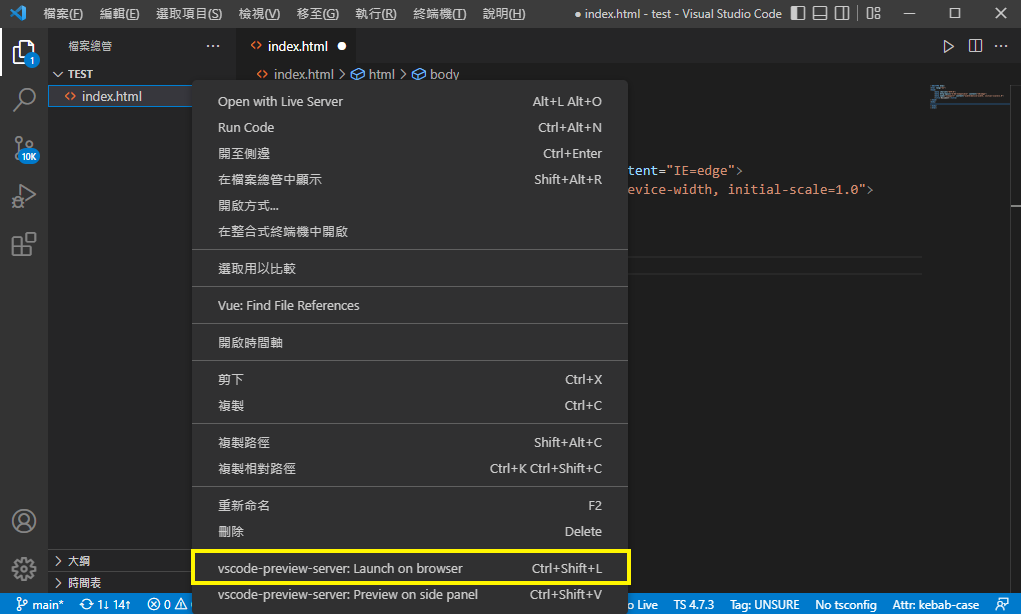
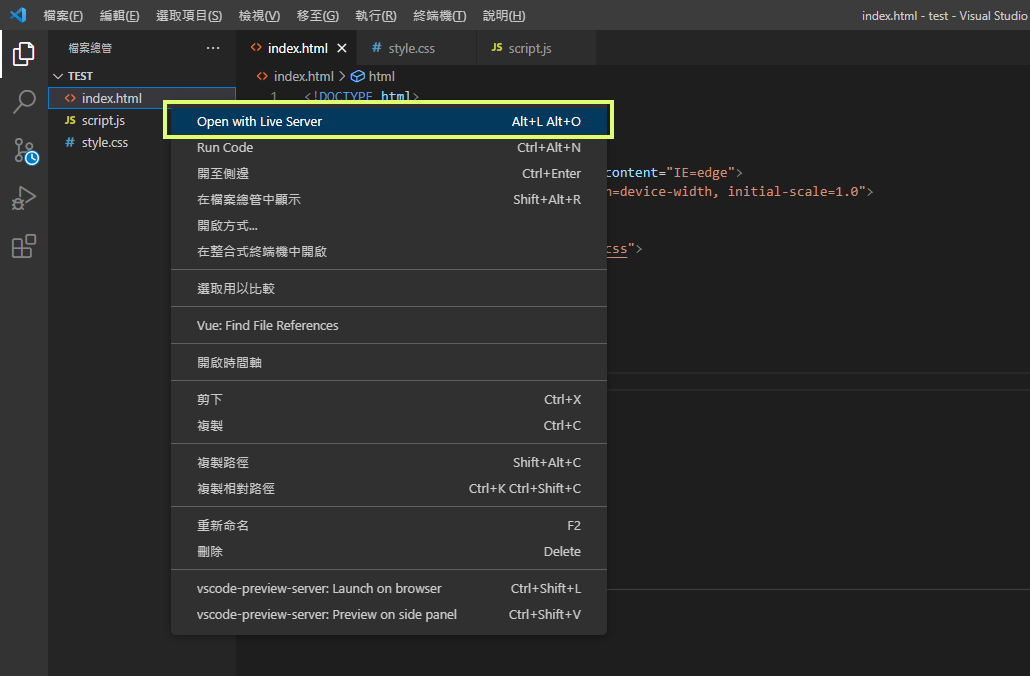
GitBook: [#14] No subject

diff --git a/jie-shao-yu-zhi-hang-huan-jing-execution-context/hello-world.md b/jie-shao-yu-zhi-hang-huan-jing-execution-context/hello-world.md
@@ -31,7 +31,7 @@ description: 所有程式語言的開端
 
 接下來輸入 `alert('hello world!!');` 並按下「Enter」試試看會發生什麼事吧！
 
-<figure><img src="../.gitbook/assets/image.png" alt=""><figcaption></figcaption></figure>
+<figure><img src="../.gitbook/assets/image (3).png" alt=""><figcaption></figcaption></figure>
 
 在試試看輸入 `console.log('hello world');`！
 
@@ -47,25 +47,41 @@ description: 所有程式語言的開端
 
 <figure><img src="../.gitbook/assets/image (1).png" alt=""><figcaption></figcaption></figure>
 
-上面已經先寫好「CSS」、「HTML」、「JavaScript」撰寫的區塊。
+上圖中已經先標示好「CSS」、「HTML」、「JavaScript」撰寫的區塊。
 
-也代表著我們接下來要將JavaScript寫在script標籤中。
+Style表示撰寫CSS，也就是網頁的樣式，程式碼通常撰寫在標籤內，`<style>這裡</style>`。
+
+Body通常做為撰寫HTML與JavaScript的地方，所以可以看見body內有script。
+
+Script就是我們用來寫JavaScript的地方。
+
+也代表著我們接下來要將JavaScript寫在script標籤中，像是：
+
+```
+<script>
+    var x = 10;
+</script>
+```
+
+但這樣的方式是不是會感覺很混亂呢？所有東西都塞在同一個檔案內。
 
 ### 引入HTML中
 
 但上面這個寫法是都將CSS、JavaScript寫在html檔案中。
 
-其實我們也可以透過引入的方式！
+其實我們也可以透過**引入**的方式！
 
-下面第9行是引入我們建立的「style.css」檔案的程式。
+可以先建立我們需要的檔案，「style.css」和「script.js」，要注意檔案後的副檔名。
+
+下面圖中第9行是引入我們建立的「style.css」檔案的程式。
 
 第14行是引入「script.js」檔案的程式，也就是我們原本撰寫JavaScript的地方。
 
-<figure><img src="../.gitbook/assets/image (3).png" alt=""><figcaption></figcaption></figure>
+<figure><img src="../.gitbook/assets/image (3) (3).png" alt=""><figcaption></figcaption></figure>
 
 接下來我們都會在這個「script.js」中撰寫JavaScript哦！
 
-上述的示範可以練習看看！
+上述的示範可以跟著練習看看！
 
 {% hint style="success" %}
 恭喜你完成到這一步啦！不過之後的地獄才剛要開始，做好心理準備前往下一課吧！

diff --git a/jie-shao-yu-zhi-hang-huan-jing-execution-context/huan-jing-ji-ben-cao-zuo.md b/jie-shao-yu-zhi-hang-huan-jing-execution-context/huan-jing-ji-ben-cao-zuo.md
@@ -44,11 +44,11 @@ description: 本章節會帶你從零開始建立基本的環境與操作
 
 ### 開啟本地端伺服器
 
-建好後，先「ctrl+s」儲存後，點一下「index.html」檔案後，按右鍵後出現列表。
+建好後，先「ctrl+s」儲存後，對「index.html」檔案右鍵後出現列表。
 
-<figure><img src="../.gitbook/assets/image (13).png" alt=""><figcaption></figcaption></figure>
+<figure><img src="../.gitbook/assets/image.png" alt=""><figcaption></figcaption></figure>
 
-上圖中框選起來的部分點選後，會幫你在本地端建立本地伺服器，出現網址「[http://localhost:8080/index.html](http://localhost:8080/index.html)」的網站。
+點擊「Open with Live Server」，會幫你在本地端建立本地伺服器，出現網址「[http://localhost:8080/index.html](http://localhost:8080/index.html)」的網站。
 
 當然也能透過剛剛下方的「Go Live」來建立本地伺服器。
 

diff --git a/zi-liao-xing-tai-data-type-yu-bian-shu-variable/bian-shu-variable.md b/zi-liao-xing-tai-data-type-yu-bian-shu-variable/bian-shu-variable.md
@@ -41,9 +41,9 @@ var x = 10;
 接下來這邊有五個練習題，可以練習看看：
 
 ```
-1. 題目：宣告一個任意變數，該變數的值為20。
+1.題目：宣告一個任意變數，該變數的值為20。
 
-2. 題目：媽媽的年齡是30歲，爸爸的年齡是35歲。
+2.題目：媽媽的年齡是30歲，爸爸的年齡是35歲。
 
 3.題目：菜籃裡有3個雞蛋，5個蘋果，8個橘子。
 

diff --git a/jie-shao-yu-zhi-hang-huan-jing-execution-context/wang-ye-kai-fa-ling-yu-jie-shao.md b/jie-shao-yu-zhi-hang-huan-jing-execution-context/wang-ye-kai-fa-ling-yu-jie-shao.md
@@ -4,7 +4,7 @@ description: 在進入網頁開發前，可以先了解的基本知識
 
 # 網頁開發領域介紹
 
-### 前言
+### **前言**
 
 在早期網頁開發並沒有分前端或後端開發，一直到需求越來越大時，發現在維護或管理上有很大的問題，才一直到現在有了主流的**前後端分離**。
 
